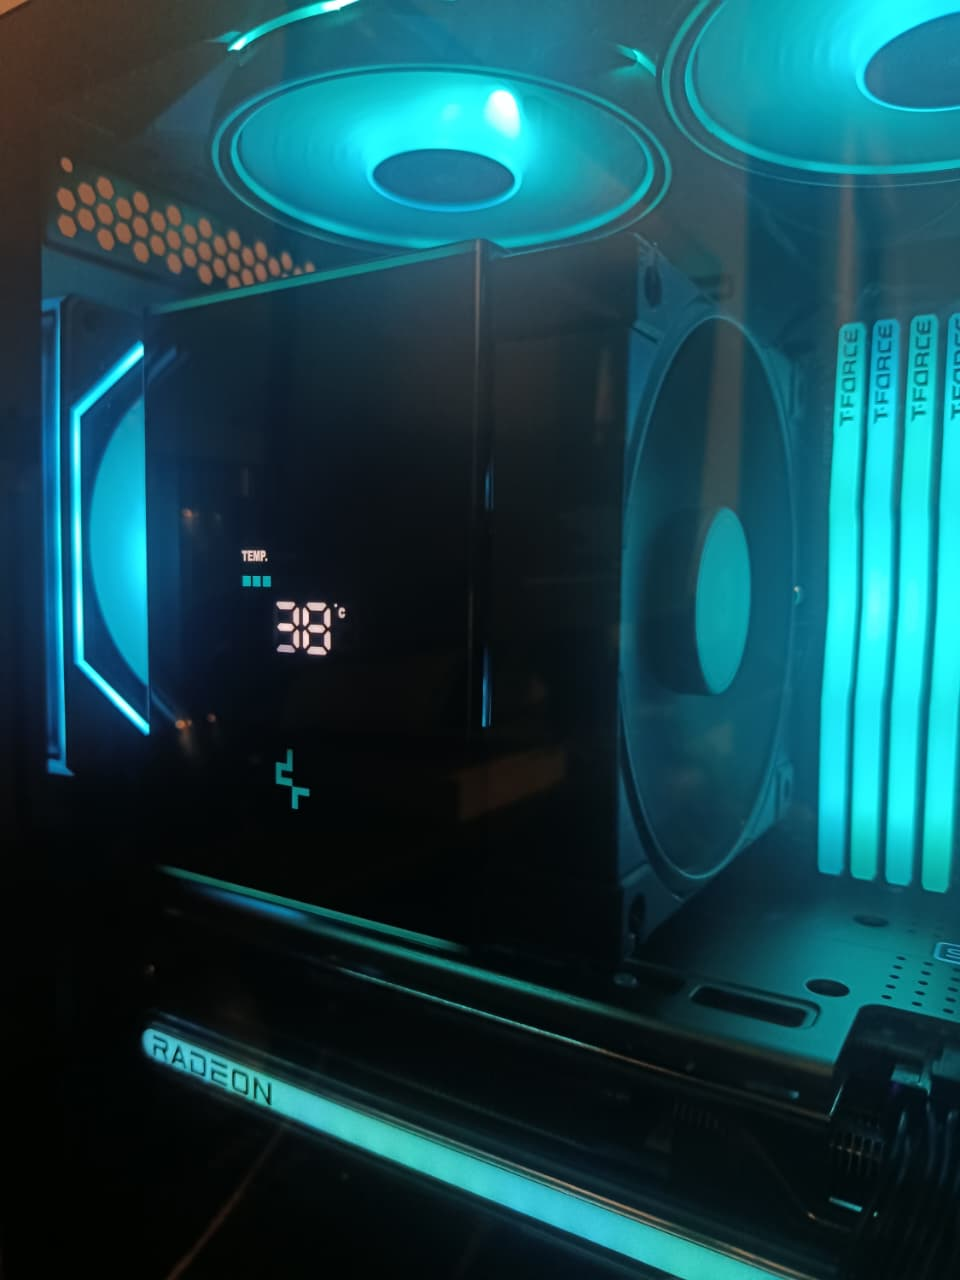
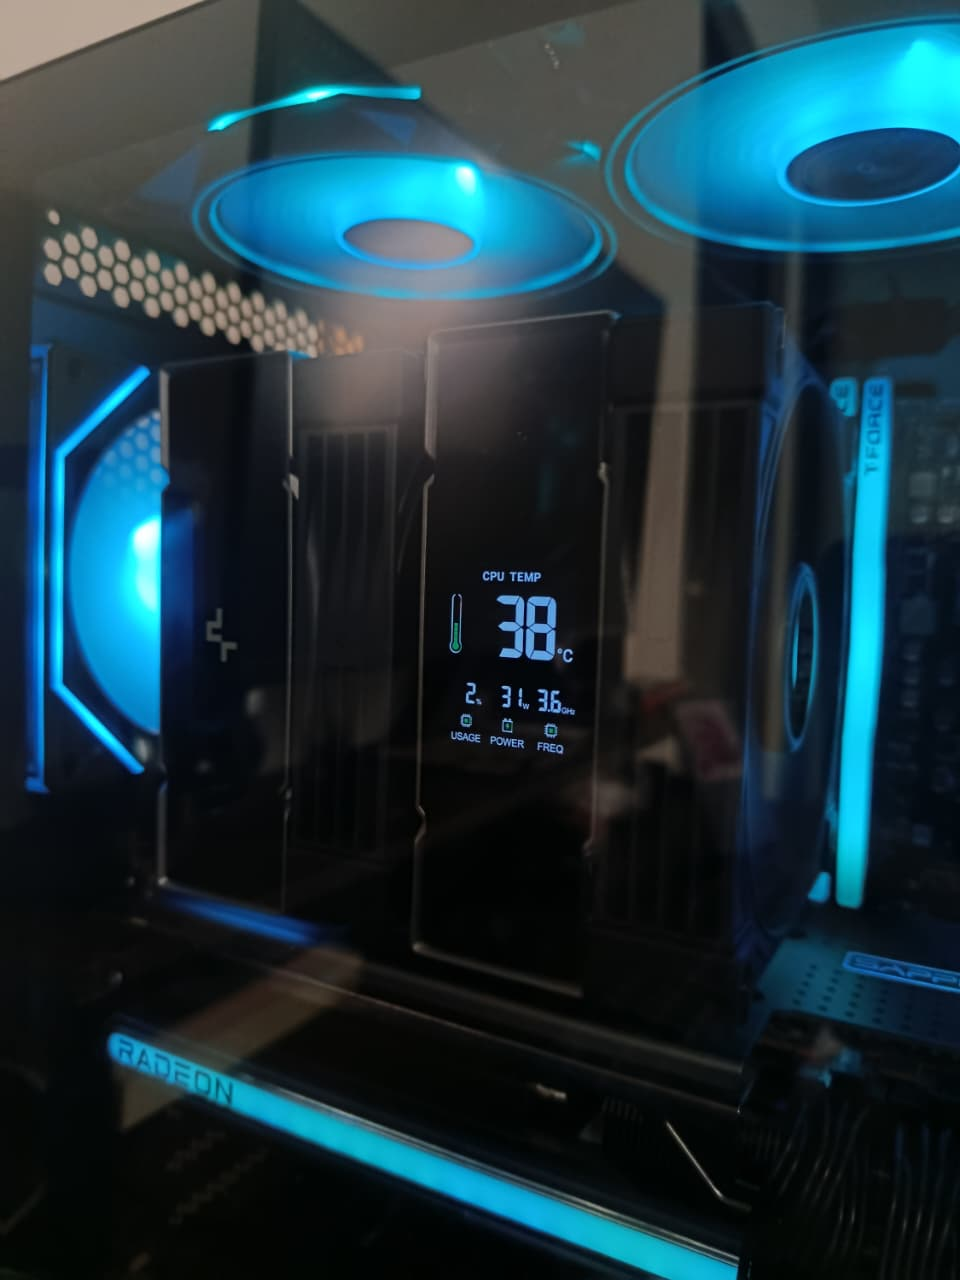
Updated readme and image

diff --git a/README.md b/README.md
@@ -1,4 +1,8 @@
-# ![EXKL](./priv/static/images/icon/icon-dark.png) EXKL
+<p align="center">
+  <img src="./priv/static/images/icon/icon-dark.png" alt="EXKL logo" width="88" />
+</p>
+
+<h1 align="center">EXKL</h1>
 
 Unofficial Linux app for **DeepCool Digital** coolers and case displays (USB vendor `3633`). Drives the HID screen, shows CPU/GPU metrics in the system tray, and runs as a user service.
 
